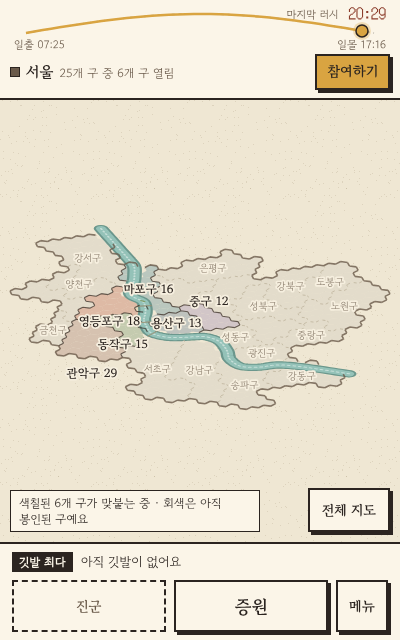
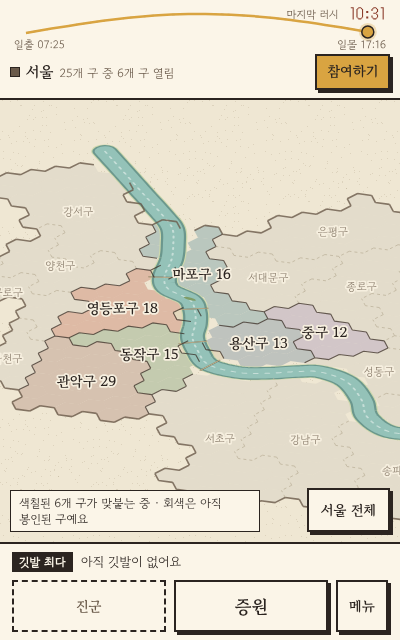
둘러보기 첫 화면을 시범 6개 구에 맞춰 당기기
- 처음엔 열린 6개 구가 화면을 채우게, 버튼으로 '서울 전체' ↔ '시범 전선'
- 대표 화면(og.png) 다시 찍음

Claude-Session: https://claude.ai/code/session_014wdP5uRRBQnbFpnLkDpvCk

diff --git a/web/js/map.js b/web/js/map.js
@@ -84,11 +84,20 @@ export class MapView {
   }
 
   overview() { return !this.state.myGu; }
-  // 전체 보기: 투영된 지도 범위의 정가운데를 화면 가운데에
-  fitAll() {
-    const P = this.proj, a = (P.x0 + P.x1) / 2 / KX, b = (P.y0 + P.y1) / 2 / KY;
-    this.cam.x = (a + b) / 2; this.cam.y = (b - a) / 2; this.cam.s = this.sFit;
+  // 칸 묶음의 투영 범위 정가운데를 화면 가운데에, 화면을 채우는 배율로
+  fitTiles(list) {
+    const m = this.idx.size, px = [], py = [];
+    for (const c of list) for (const [cx, cy] of CORNER) { const x = c.x + cx * m, y = c.y + cy * m; px.push(KX * (x - y)); py.push(KY * (x + y)); }
+    const x0 = Math.min(...px), x1 = Math.max(...px), y0 = Math.min(...py), y1 = Math.max(...py);
+    const a = (x0 + x1) / 2 / KX, b = (y0 + y1) / 2 / KY;
+    this.cam.x = (a + b) / 2; this.cam.y = (b - a) / 2;
+    this.cam.s = Math.min((this.w - 24) / (x1 - x0), (this.hgt - this.inset - 56) / (y1 - y0));
+    this.clamp();
   }
+  // 서울 전체 보기
+  fitAll() { this.fitTiles(this.tiles); this.cam.s = this.sFit; this.view = 'all'; }
+  // 시범 전선(열린 구) 보기
+  fitOpen() { this.fitTiles(this.open.filter(c => c.kind !== 'river')); this.view = 'open'; }
   focusTiles() {
     const gu = this.state.myGu;
     const mine = gu ? this.tiles.filter(c => c.owner === gu) : [];
@@ -98,7 +107,7 @@ export class MapView {
   // 둘러보는 중: 서울 전체 / 우리 구가 있으면: 우리 전선을 크게
   home() {
     this.homed = this.state.myGu || 'browse';
-    if (this.overview()) { this.fitAll(); return; }
+    if (this.overview()) { this.fitOpen(); return; } // 처음엔 시범 6개 구가 화면을 채우게
     const ts = this.focusTiles();
     const front = ts.filter(c => c.adj.some(n => { const o = this.idx.byId.get(n); return o.kind !== 'river' && !o.sealed && o.owner !== c.owner; }));
     const pick = front.length ? front : ts;
@@ -117,7 +126,7 @@ export class MapView {
     this.clamp();
   }
   setInset(px) { this.inset = Math.max(0, Math.min(this.hgt * 0.8, px || 0)); }
-  setZoom(s) { this.cam.s = Math.min(this.sDefault * 1.8, Math.max(this.sFit, s)); this.clamp(); }
+  setZoom(s) { this.cam.s = Math.min(this.sDefault * 1.8, Math.max(this.sFit, s)); this.view = null; this.clamp(); }
   zoomBy(f) { this.setZoom(this.cam.s * f); }
   clamp() {
     const P = this.plane;

diff --git a/web/js/app.js b/web/js/app.js
@@ -141,7 +141,7 @@ function render() {
     $('flagText').textContent = top ? `${S.idx.byId.get(top[0]).name} 칸 · 깃발 ${top[1]}개` : (gu ? '칸을 눌러 깃발을 꽂아 목표를 정해요' : '아직 깃발이 없어요');
   } else { $('flagTag').textContent = '증원했다면'; $('flagText').textContent = '화면을 끄는 것도 전략이에요'; }
   $('menuBadge').hidden = !inc.length;
-  $('btnFront').textContent = gu ? '우리 전선으로' : '전체 지도';
+  frontLabel();
   $('btnSound').textContent = S.sound ? '소리 끔' : '소리';
   $('btnSound').setAttribute('aria-label', S.sound ? '소리 끄기' : '소리 켜기');
   renderPanel(inc, ranked);
@@ -408,7 +408,12 @@ $('warn').addEventListener('click', e => {
   S.map.focus(id);
   if (e.target.closest('#warnBtn')) openReinforce(id); else openTile(id);
 });
-$('btnFront').addEventListener('click', () => S.map.home());
+// 둘러보는 중: 시범 전선 ↔ 서울 전체, 구가 있으면: 우리 전선으로
+function frontLabel() { $('btnFront').textContent = myGu() ? '우리 전선으로' : S.map.view === 'open' ? '서울 전체' : '시범 전선'; }
+$('btnFront').addEventListener('click', () => {
+  if (!myGu() && S.map.view === 'open') S.map.fitAll(); else if (!myGu()) S.map.fitOpen(); else S.map.home();
+  frontLabel();
+});
 $('btnJoin').addEventListener('click', () => showOnboard(S.session ? 'gu' : 'story'));
 $('btnMenu').addEventListener('click', openMenu);
 $('btnMenuPc').addEventListener('click', openMenu);
